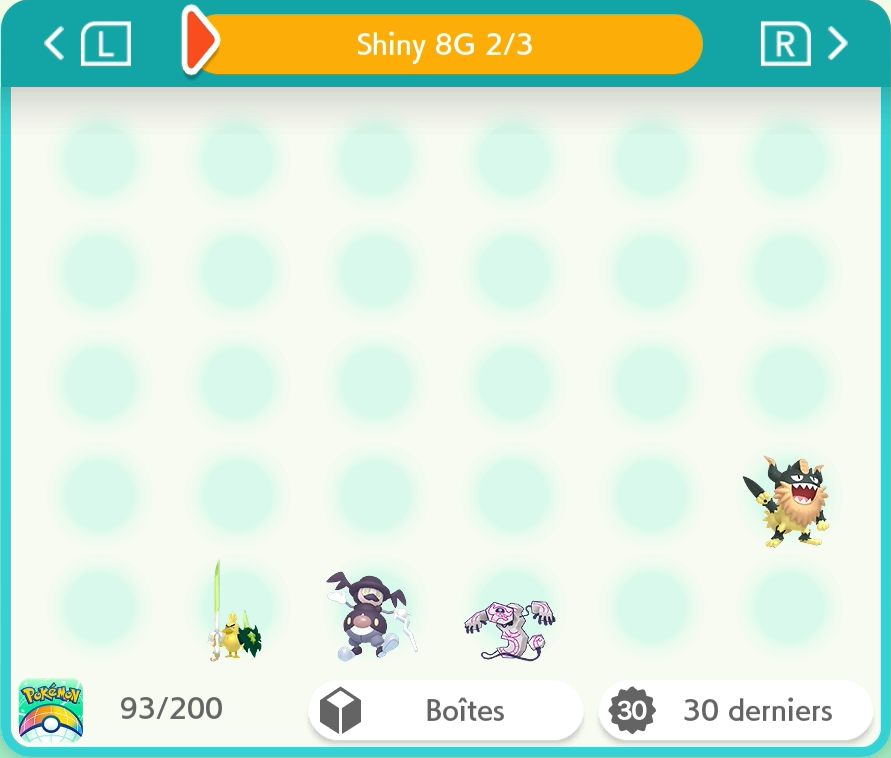
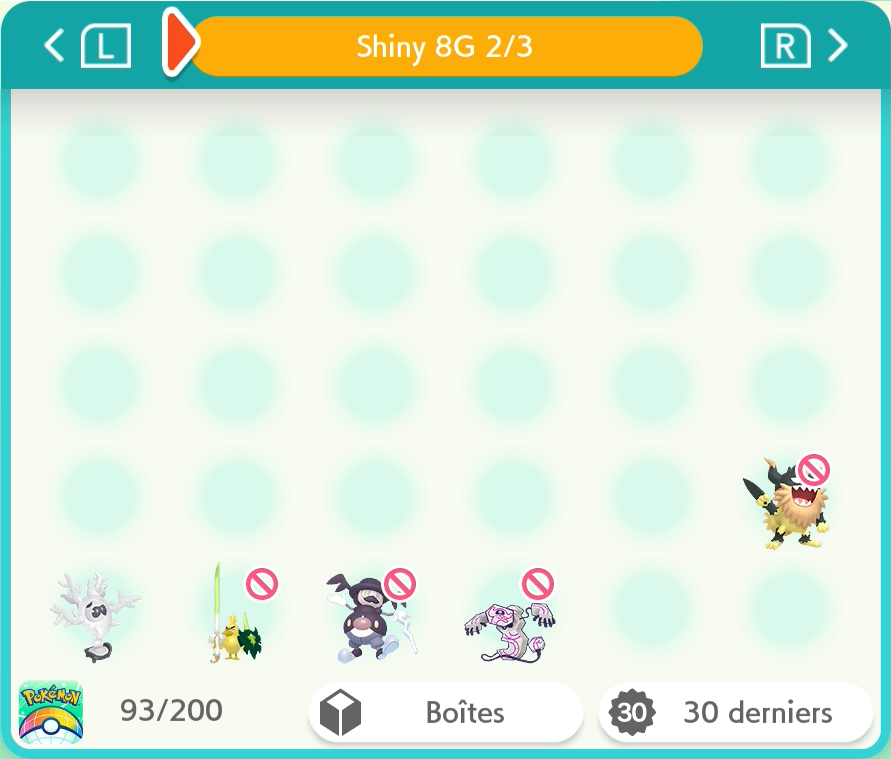
8G : Corayôme | Forme de Galar : Corayon

diff --git a/README.md b/README.md
@@ -3,7 +3,7 @@
 Pokémon-Elément-Sh -> <a href="https://www.pokemon-element-sh.fr/profil/karyno21" target="_blank">Karyno21</a>
 
 ↓ Dernière Update le 3/06/2026 à 0h25 ↓
-### Dex National [259/999] +23
+### Dex National [260/999] +24
 
 | Gen | Prog | Notes |
 |:--:|:--:|---|
@@ -14,15 +14,15 @@ Pokémon-Elément-Sh -> <a href="https://www.pokemon-element-sh.fr/profil/karyno
 |5G|28/154|+2 Funécire & Mélancolux|
 |6G|22/70|+1 Trousselin|
 |7G|16/84|J'ai deux Meltan Shiny mais impossible de le faire évolué en Melmétal... (pas compté)|
-|8G|31/90|+9 Distrib Zacian & Éthernatos, Fantyrm, Dispareptil, Lanssorien, M.Glaquette, Berserkatt, Tutétékri & Palarticho|
+|8G|32/90|+10 Distrib Zacian & Éthernatos, Fantyrm, Dispareptil, Lanssorien, M.Glaquette, Berserkatt, Tutétékri, Palarticho & Corayôme|
 |9G|45/108|+3 Terraiste, Cryodo & Glaivodo|
 
-### Formes Régionales [53/58] +34
+### Formes Régionales [54/58] +35
 
 | Forme | Prog | Notes |
 |:--:|:--:|---|
 |Alola|18/18|+17 Complété (Familles de Rattata / Goupix / Racaillou / Sabelette / Tadmorv / Taupiqueur & Miaouss, Raichu & Noadkoko)|
-|Galar|14/19|+14 Famille de Ramoloss, Distrib des oiseaux légendaire de Galar, M.Mime, Miaouss, Tutafeh, Canarticho, Limonde, Smogogo, Ponyta & Galopa|
+|Galar|15/19|+14 Famille de Ramoloss, Distrib des oiseaux légendaire de Galar, M.Mime, Miaouss, Tutafeh, Canarticho, Limonde, Smogogo, Ponyta, Galopa & Corayon|
 |Hisui|17/17|Complété|
 |Paldea|4/4|+3 Complété Axoloto, Tauros Aquatique & Flamboyant|
 
